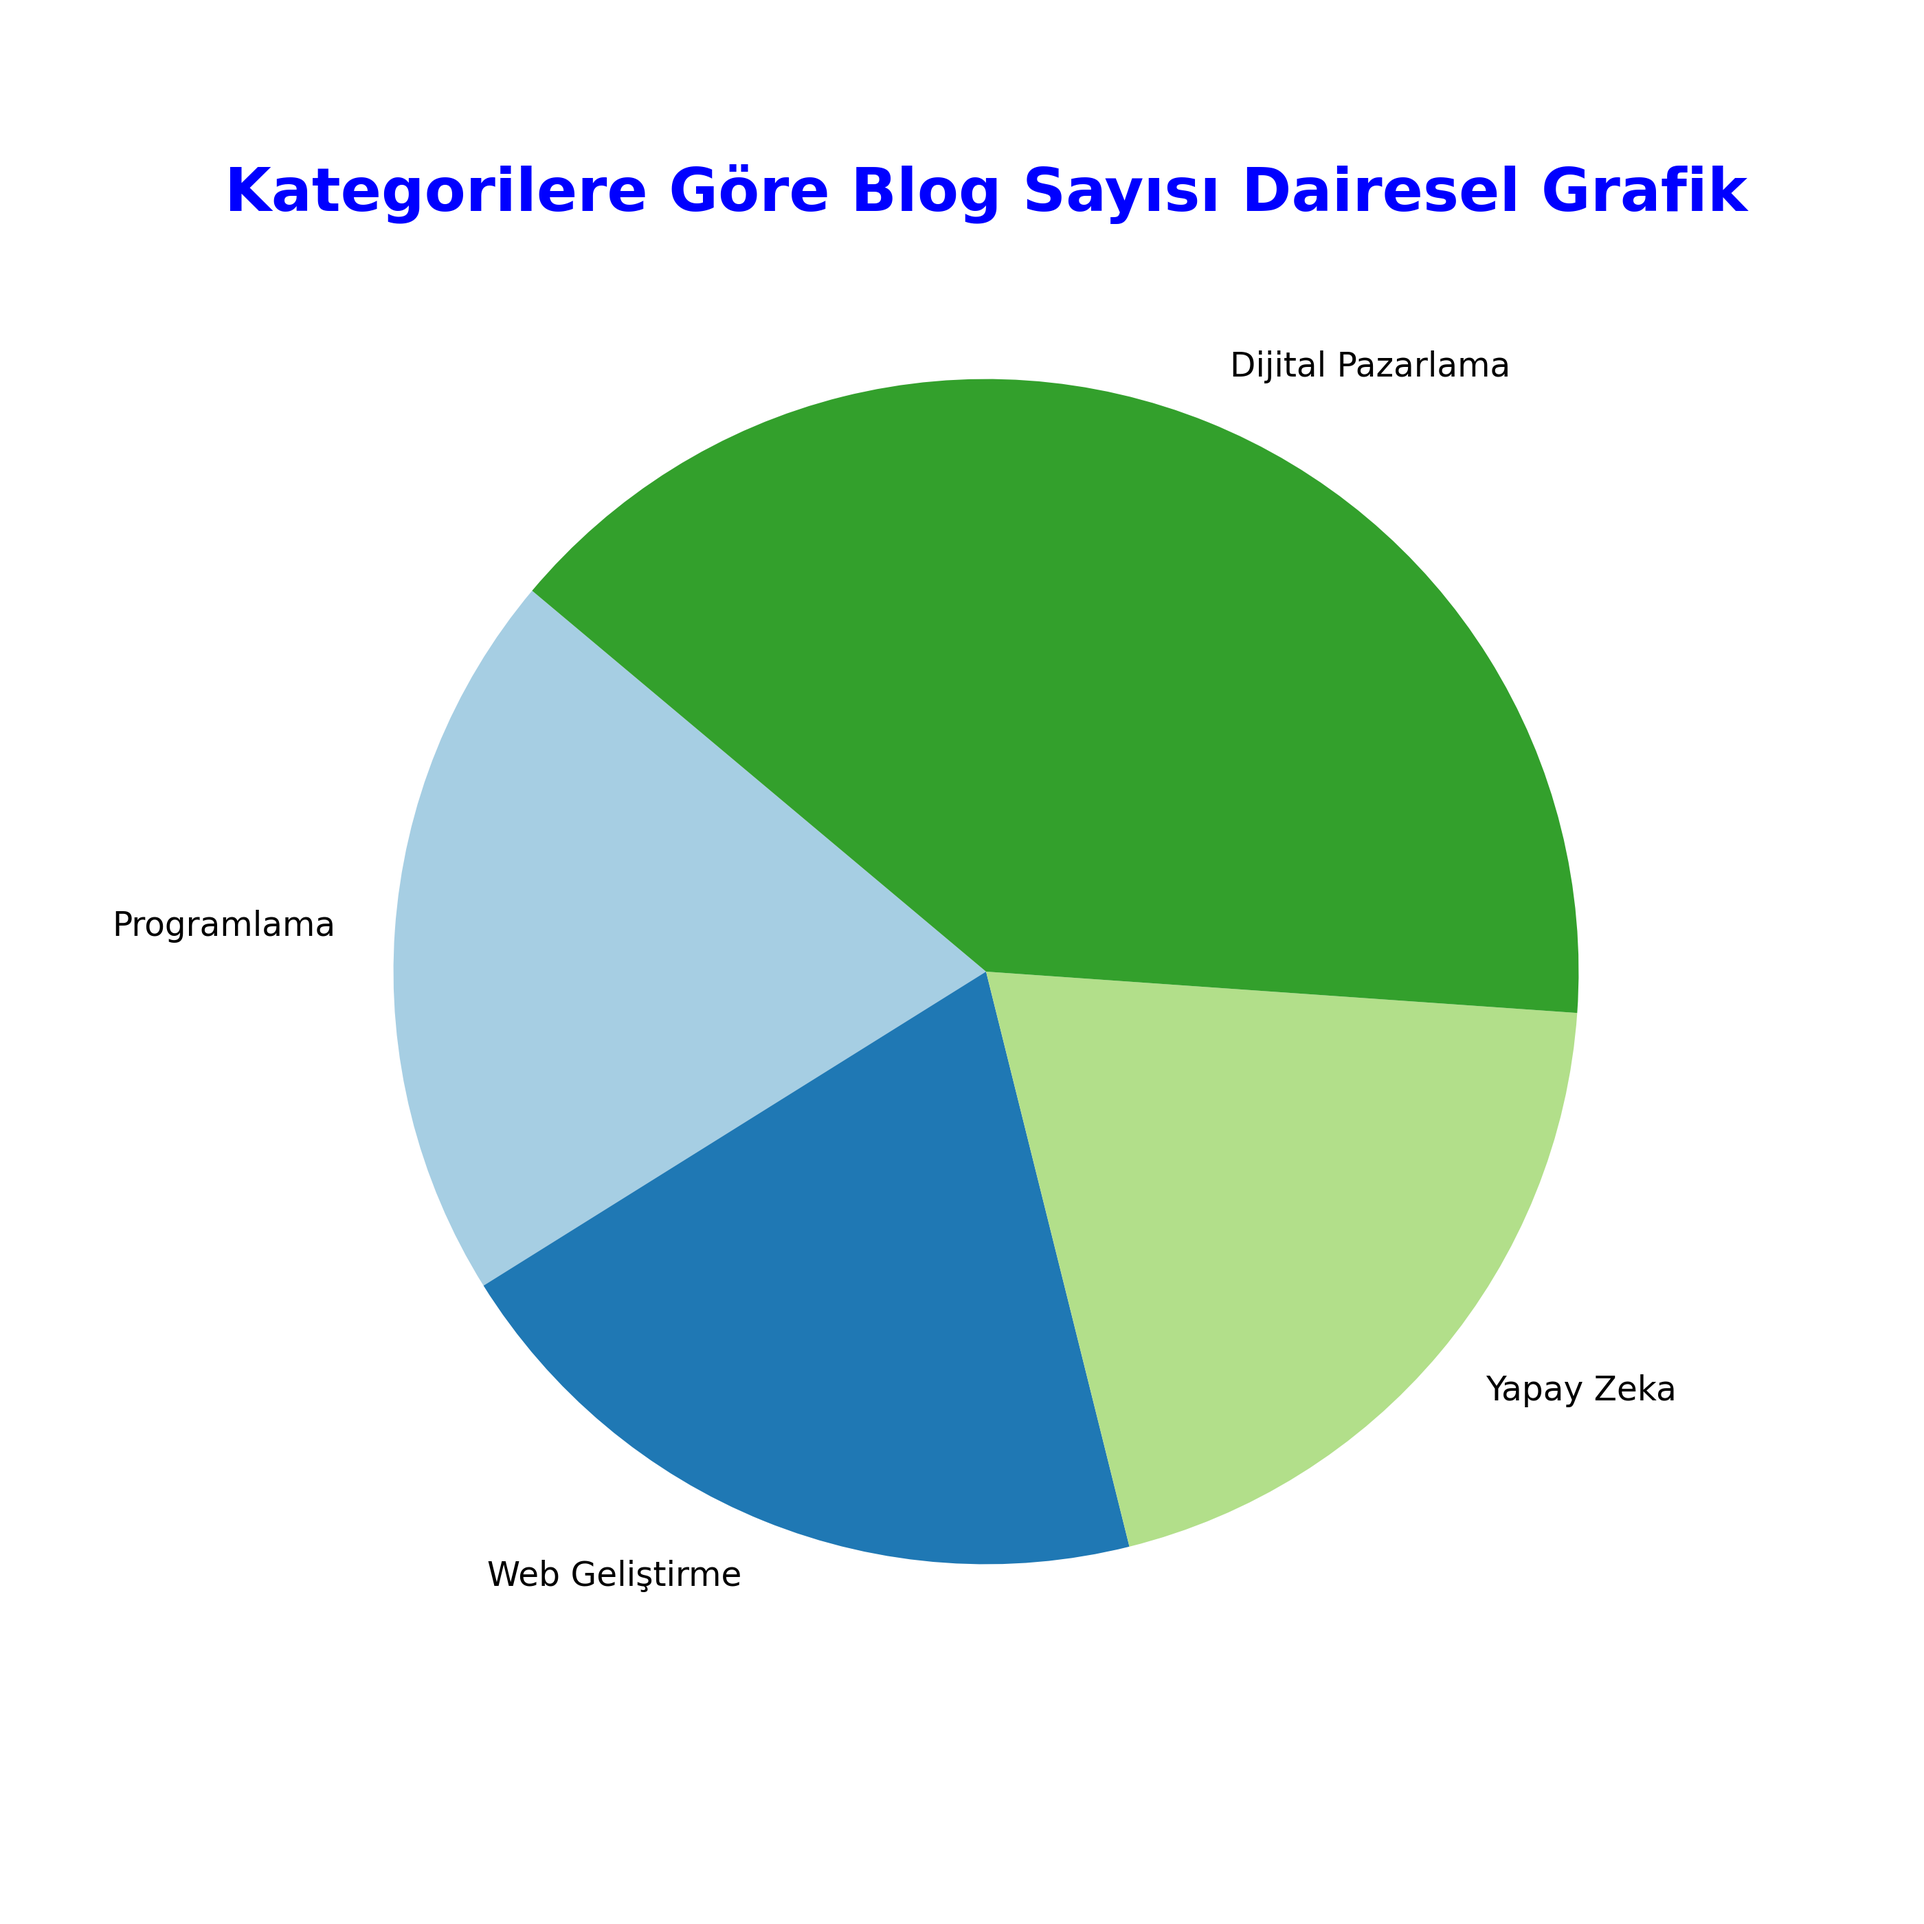
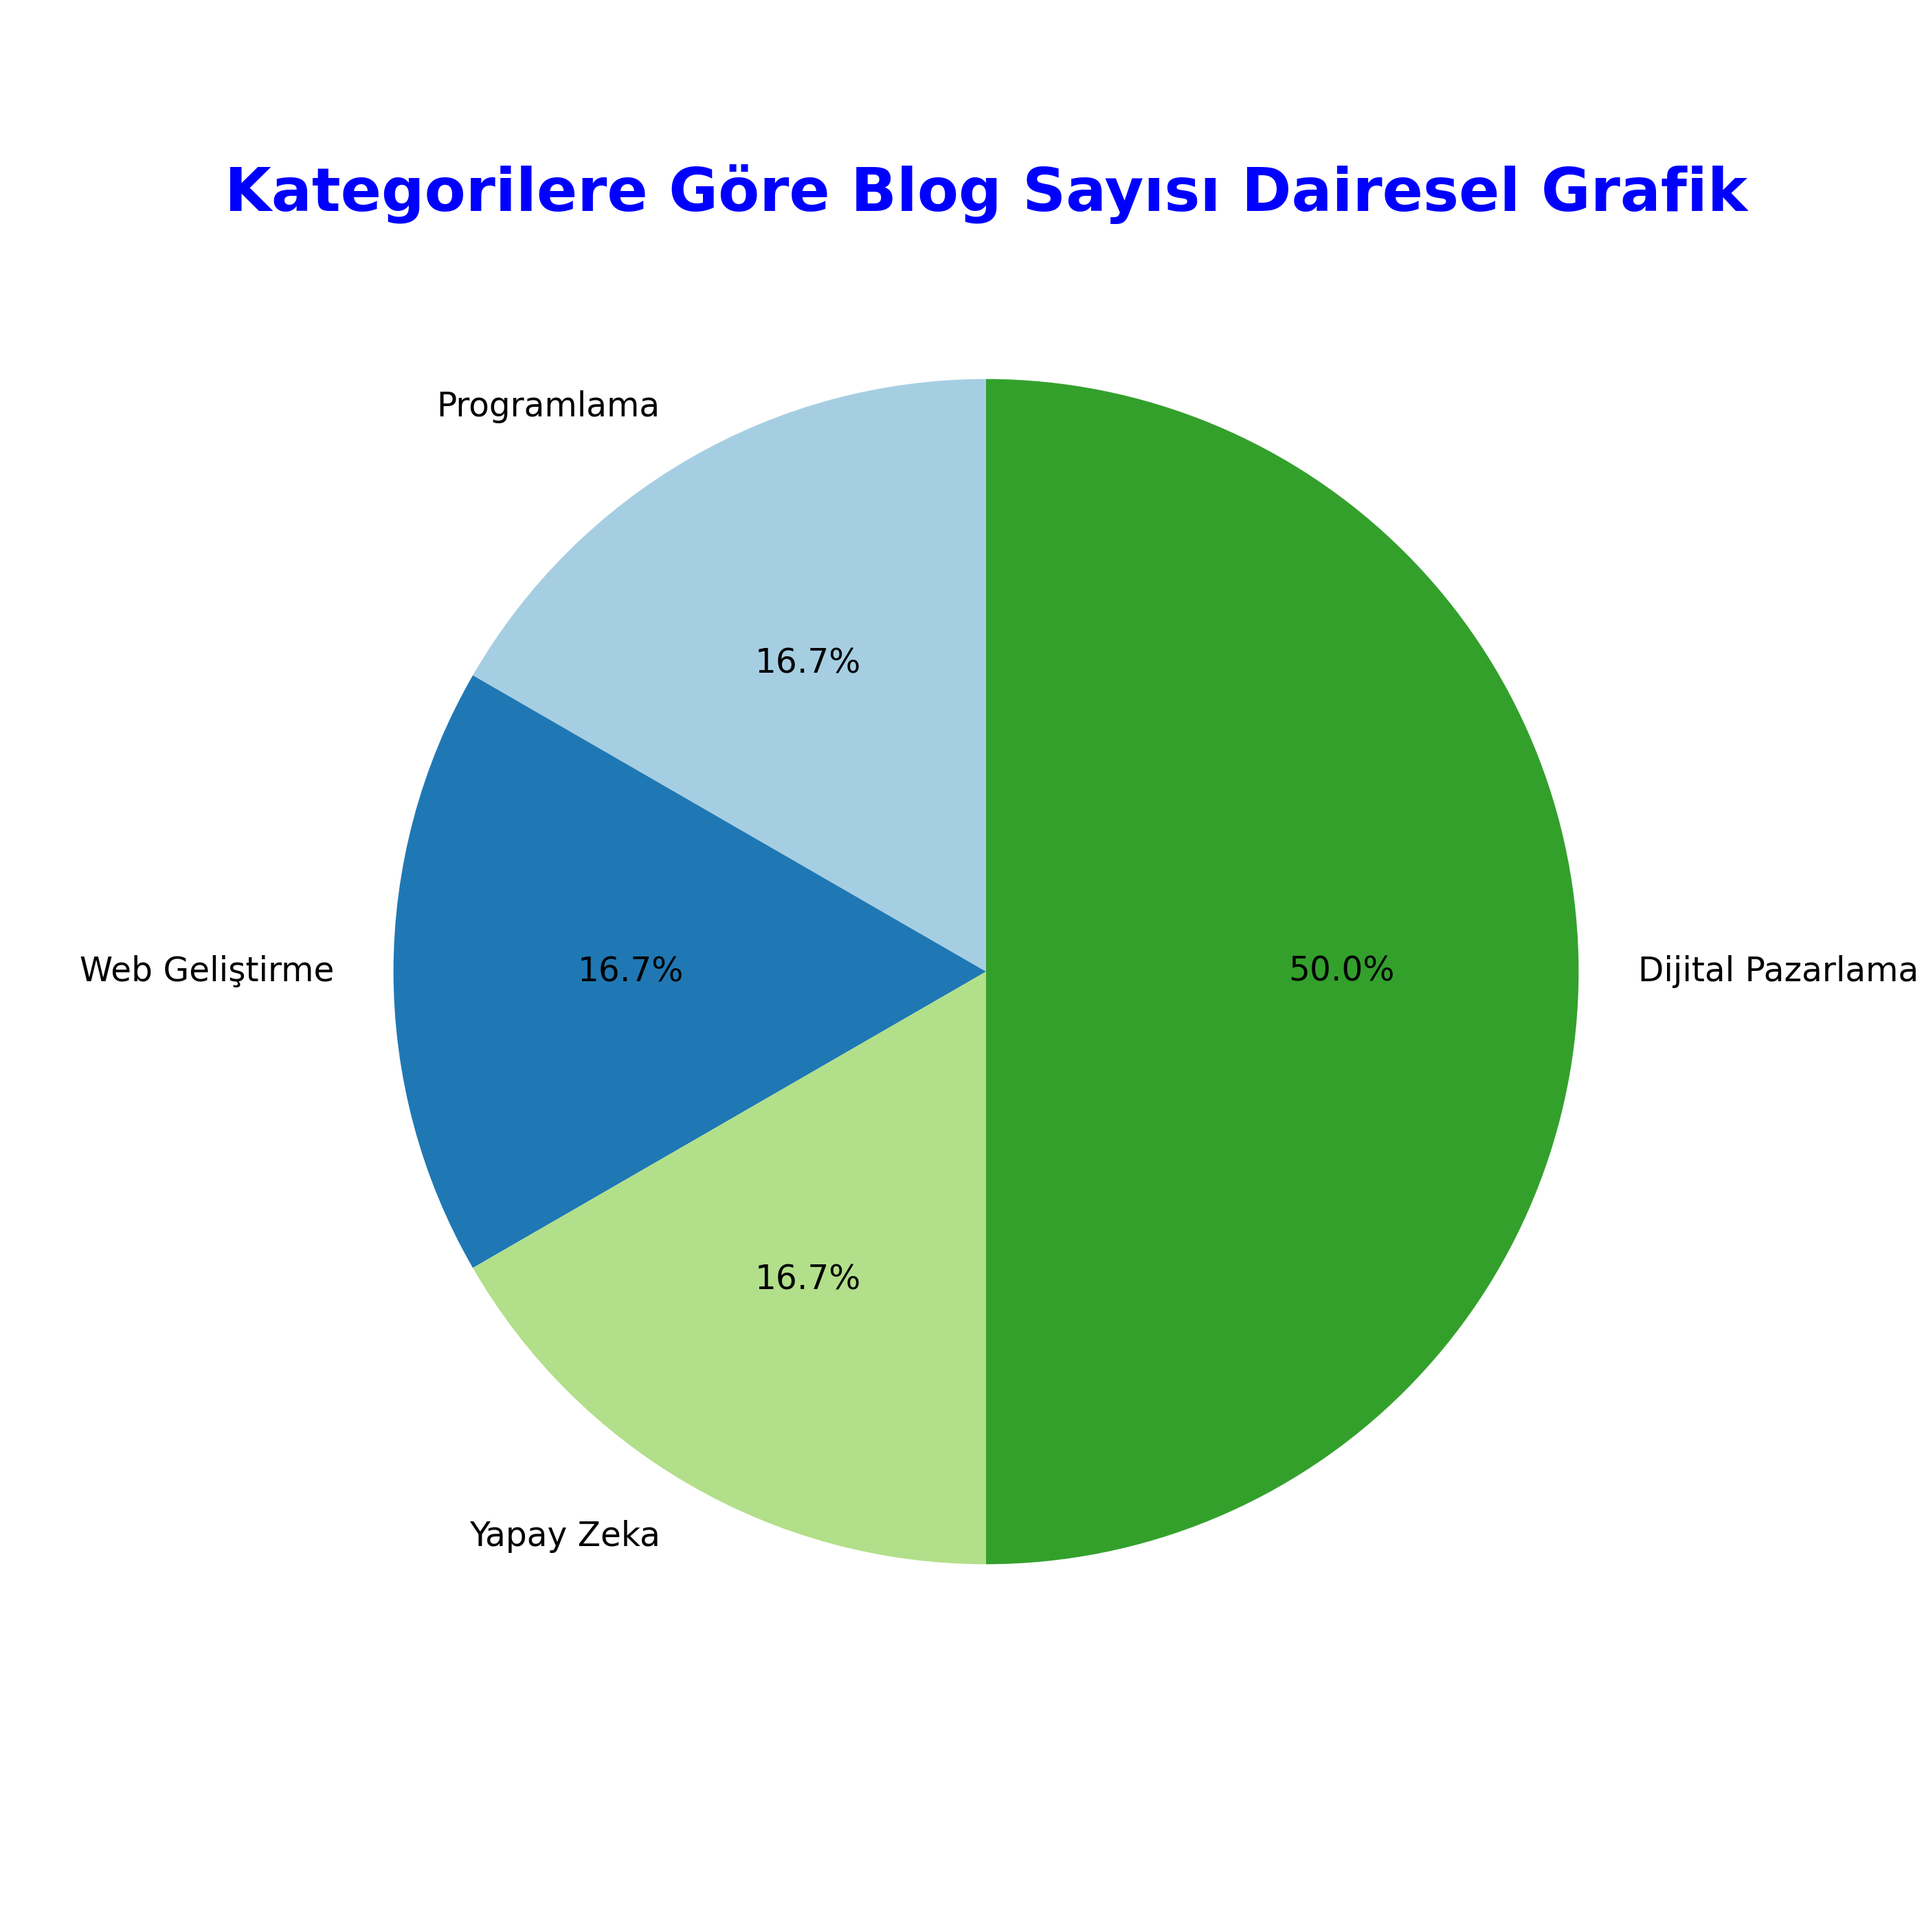
En popüler blog (görüntülenme sayısına göre)

diff --git a/python_examples/_example_01_blog.py b/python_examples/_example_01_blog.py
@@ -6,7 +6,6 @@ from scipy.stats import alpha
 
 ######################################################################################
 
-
 """
 Gerçek Hayat Problemi: Blog Yönetim Sistemi ve İçerik Analizi
 Senaryo: Bir blog yönetim sisteminiz var ve bu sistem üzerinden yazarlar içerik yayımlıyor.
@@ -233,8 +232,15 @@ def kategorilere_gore_blog_sayisi_dairesel_grafik(blog_icerikleri):
     # Dairesel dilimlerin yüzdelik oranları: autopct='%1.1f%%'
     # Pasta grafiğinin başlangıç açısı: startangle=150,
     # Otomatik renkler: colors=plt.cm.Paired.colors:
-    plt.pie(pilot_value_blog_sayilari, labels=pilot_key_kategoriler, startangle=140, colors=plt.cm.Paired.colors)
+    plt.pie(
+        pilot_value_blog_sayilari,
+        labels=pilot_key_kategoriler,
+        autopct='%1.1f%%',  # Yüzdelik oranları dilimlerin üzerine yazdır
+        startangle=90,  # Grafiğin başlangıç açısını ayarla
+        colors=plt.cm.Paired.colors  # Renk paleti
+    )
 
+    # Title
     plt.title("Kategorilere Göre Blog Sayısı Dairesel Grafik", color="blue", fontsize=18, fontweight='bold')
 
     # Grafikleri kaydet
@@ -325,4 +331,56 @@ def yazar_basina_blog_sayisi_cizgisel(blog_icerikleri):
     plt.show()
 
 # Fonksiyonu çağırmak ve Grafiği çizdirmek
-yazar_basina_blog_sayisi_cizgisel(blog_icerikleri)
+#yazar_basina_blog_sayisi_cizgisel(blog_icerikleri)
+
+################################################################################################
+# 4. En popüler blog (görüntülenme sayısına göre)
+def en_populer_blog_cizgi_grafik(blog_icerikleri):
+    """
+    Blog içerisindeki en popüler blogları çubuk grafikle gösteriyoruz.
+    Parameter:
+      blog_icerikleri(list)
+
+    Çıktı:
+      En popüler blog başlığı ve görüntüleme sayısını göster
+    """
+    print("\n\rEn Popüler Blog:")
+    # En popüler blogları hesaplama
+    en_populer_blog = max(blog_icerikleri, key=lambda x: x["goruntulenme"])
+    print(f"Başlık: {en_populer_blog['baslik']}, Görüntüleme: {en_populer_blog['goruntulenme']}")
+
+    ### GRAFIK CIZ ########################################################
+    # Verileri Hazırlama
+    # key: blog_basligi
+    # value: goruntuleme_sayisi
+    pilot_key_blog_basligi = [blog["baslik"] for blog in blog_icerikleri] # blog_basligi
+    pilot_value_goruntuleme_sayisi = [blog["goruntulenme"] for blog in blog_icerikleri] # blog_basligi
+
+    # Çubuk grafik çizimi
+    # Grafik alanını genişlik, yüksekliklerini ayalarlıyalım
+    # genişlik:8, yükseklik:5
+    plt.figure(figsize=(8, 5))  # Grafik boyutunu gösterecek
+    plt.barh(pilot_key_blog_basligi, pilot_value_goruntuleme_sayisi, color='lightyellow', edgecolor="black", alpha=0.8)
+    plt.title("Yazar Başına Blog Sayısı", color="blue", fontsize=18, fontweight='bold')
+    plt.xlabel("Blogların Görüntüleme SAyısı", color="red", fontsize=8, fontweight='bold', labelpad=10)
+    plt.ylabel("Blog Sayısı", color="red", fontsize=8, fontweight='bold', labelpad=10)
+    #plt.xticks(rotation=30, fontsize=12, color='darkred')  # X ekseni yazıları
+    #for i, val in enumerate(pilot_value_goruntuleme_sayisi):
+    #    plt.text(i, val + 0.2, str(val), ha='center', fontsize=12, color='darkgreen', fontweight='bold')
+    #plt.gca().set_facecolor("white")
+    #plt.gca().spines['bottom'].set_linewidth(1.4)
+    #plt.gca().spines['left'].set_linewidth(1.4)
+    plt.grid(axis='y', linestyle="--", alpha=0.6)
+    plt.tight_layout()
+
+    # Grafikleri kaydet
+    plt.savefig("yazar_basina_blog_sayisi_cizgisel.png", dpi=350)  # Grafiği kaydet
+
+    # Grafiği Ekranda Göster
+    plt.show()
+
+# Fonksiyonu çağırmak ve Grafiği çizdirmek
+en_populer_blog_cizgi_grafik(blog_icerikleri)
+
+################################################################################################
+# 5. Yorum sayısı ve en çok yorum alan blog
